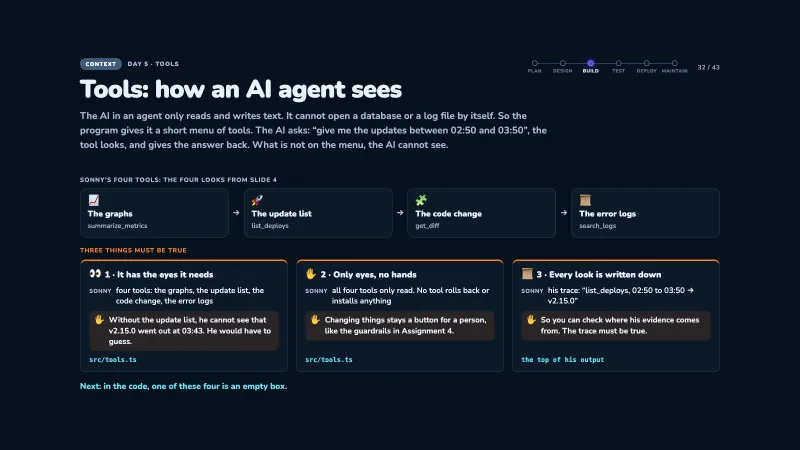
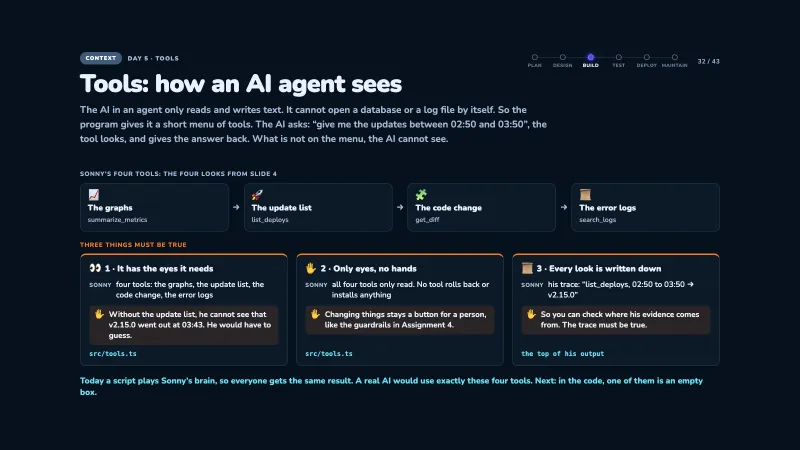
Day 5 slide 32: one line that today a script plays Sonny's brain and a real AI would use the same four tools
Jessy was confused whether there is an AI at all; decided against a real-model demo (side issue, not on Day 5's route). One sentence is enough; A5 stays as tested.

diff --git a/day5-jessy-slides.js b/day5-jessy-slides.js
@@ -1164,7 +1164,7 @@ const day5Slides = [
         {icon: '✋', title: '2 · Only eyes, no hands', whoLabel: 'Sonny', who: 'all four tools only read. No tool rolls back or installs anything', stop: 'Changing things stays a button for a person, like the guardrails in Assignment 4.', where: 'src/tools.ts'},
         {icon: '📜', title: '3 · Every look is written down', whoLabel: 'Sonny', who: 'his trace: “list_deploys, 02:50 to 03:50 → v2.15.0”', stop: 'So you can check where his evidence comes from. The trace must be true.', where: 'the top of his output'}
       ],
-      foot: 'Next: in the code, one of these four is an empty box.'
+      foot: 'Today a script plays Sonny’s brain, so everyone gets the same result. A real AI would use exactly these four tools. Next: in the code, one of them is an empty box.'
     }},
     keyPoints: ['The AI only reads and writes text: it sees only through the tools on its menu.', 'Only eyes, no hands: the tools only read.', 'Every look is in the trace, so you can check the evidence.'],
     notes: 'Time: 13:45 · 3 min. Clicks (→): 1 the heading · 2–4 the three cards · 5 the line at the bottom. The four tools are the four looks from slide 4 and the four trace lines from Assignment 1. In the code: the handlers in src/tools.ts, offered to a real model via the telemetry MCP server (createTelemetryServer); the offline script calls the same handlers.',
@@ -1177,7 +1177,7 @@ const day5Slides = [
         {shot: 'assets/day5-jessy-teach/s32-3.webp', do: 'Click: card 2.', say: ['Two: only eyes, no hands. All four tools only read. There is no tool that rolls back. Changing things stays a button for a person.']},
         {shot: 'assets/day5-jessy-teach/s32-4.webp', do: 'Click: card 3.', say: ['Three: every look is written down. That is the trace at the top of his output. You use it to check where his evidence comes from. So the trace must be true.']},
         {ask: 'Which of the three would break if a tool could roll back?', say: ['(Answer: number 2, only eyes. Sonny would get hands.)']},
-        {shot: 'assets/day5-jessy-teach/s32-5.webp', do: 'Click: the line at the bottom.', say: ['Now let us look in the code. One of these four is an empty box.']}
+        {shot: 'assets/day5-jessy-teach/s32-5.webp', do: 'Click: the line at the bottom.', say: ['One more thing: today a script plays Sonny’s brain, not a real AI. That way everyone gets the same result. A real AI would use exactly these four tools.', 'Now let us look in the code. One of these four is an empty box.']}
       ],
       learn: ['An AI agent sees only through its tools.', 'Only eyes, no hands.', 'The trace shows every look.'],
       watch: ['Someone asks what a tool looks like: next slide, in the code.'],

diff --git a/day5-jessy.html b/day5-jessy.html
@@ -1,5 +1,5 @@
 <!doctype html>
-<html lang="en"><head><meta charset="utf-8"><meta http-equiv="Cache-Control" content="no-cache, no-store, must-revalidate"><meta http-equiv="Pragma" content="no-cache"><meta http-equiv="Expires" content="0"><meta name="viewport" content="width=device-width,initial-scale=1"><meta name="theme-color" content="#06111e"><title>Day 5 · AI-native SDLC (Jessy) · Aetherlink classroom</title><meta name="description" content="Day 5: a newcomer builds an AI on-call agent through six evidence-led assignments with Claude Code."><link rel="stylesheet" href="styles.css?v=200"><link rel="stylesheet" href="assets/day5-mobile.css?v=1"><script>window.ASG_PROMPT = true; window.ASG_WIDE = true; window.PRESENTER_PAGE = "day5-jessy-presenter.html"; window.OVERVIEW_SHEET = "https://claude.ai/artifact/46G6q235cuFtgRUruznWXm";</script><script src="day5-jessy-slides.js?v=67" defer></script><script src="demo-fallback.js?v=94" defer></script><script src="timers.js?v=92" defer></script><script src="sessions.js?v=20" defer></script><script src="app.js?v=181" defer></script><script src="fit-stage.js?v=2" defer></script></head>
+<html lang="en"><head><meta charset="utf-8"><meta http-equiv="Cache-Control" content="no-cache, no-store, must-revalidate"><meta http-equiv="Pragma" content="no-cache"><meta http-equiv="Expires" content="0"><meta name="viewport" content="width=device-width,initial-scale=1"><meta name="theme-color" content="#06111e"><title>Day 5 · AI-native SDLC (Jessy) · Aetherlink classroom</title><meta name="description" content="Day 5: a newcomer builds an AI on-call agent through six evidence-led assignments with Claude Code."><link rel="stylesheet" href="styles.css?v=200"><link rel="stylesheet" href="assets/day5-mobile.css?v=1"><script>window.ASG_PROMPT = true; window.ASG_WIDE = true; window.PRESENTER_PAGE = "day5-jessy-presenter.html"; window.OVERVIEW_SHEET = "https://claude.ai/artifact/46G6q235cuFtgRUruznWXm";</script><script src="day5-jessy-slides.js?v=68" defer></script><script src="demo-fallback.js?v=94" defer></script><script src="timers.js?v=92" defer></script><script src="sessions.js?v=20" defer></script><script src="app.js?v=181" defer></script><script src="fit-stage.js?v=2" defer></script></head>
 <body class="day5-mobile"><a class="skip" href="#stage">Skip to presentation</a>
 <header class="toolbar">
   <a class="brand" href="#1" aria-label="Aetherlink, slide 1"><img class="brand-mark" src="assets/aetherlink-mark.png" alt="" width="44" height="44">AETHER<span>LINK</span><small>WORLDLINE · CLASSROOM</small></a>

diff --git a/day5-jessy-presenter.html b/day5-jessy-presenter.html
@@ -149,7 +149,7 @@
       </div>
     </div>
   </div>
-  <script>window.DECK_PAGE = "day5-jessy.html"; window.PRESENTER_SKIP_HIDDEN = true;</script><script src="day5-jessy-slides.js?v=67" defer></script>
+  <script>window.DECK_PAGE = "day5-jessy.html"; window.PRESENTER_SKIP_HIDDEN = true;</script><script src="day5-jessy-slides.js?v=68" defer></script>
   <script src="timers.js?v=92" defer></script>
   <script>
     const upgradeDay5Clip = video => {
